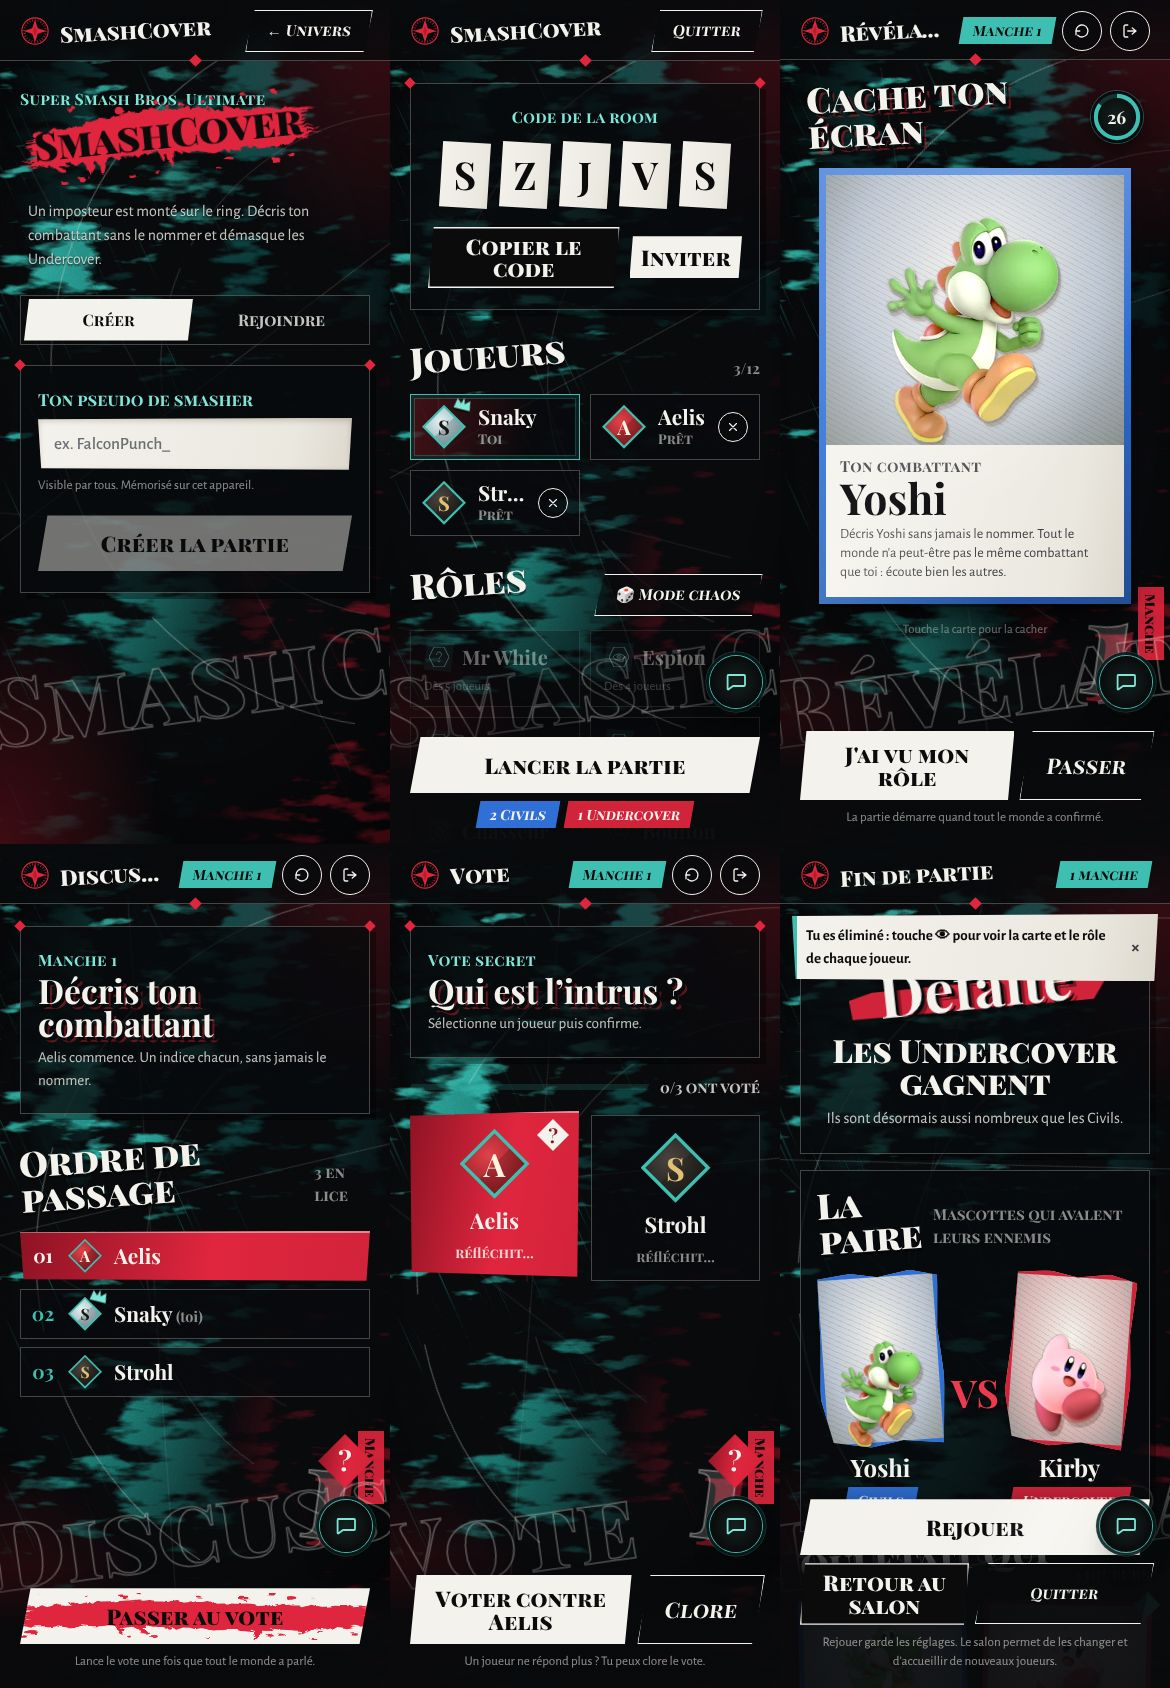
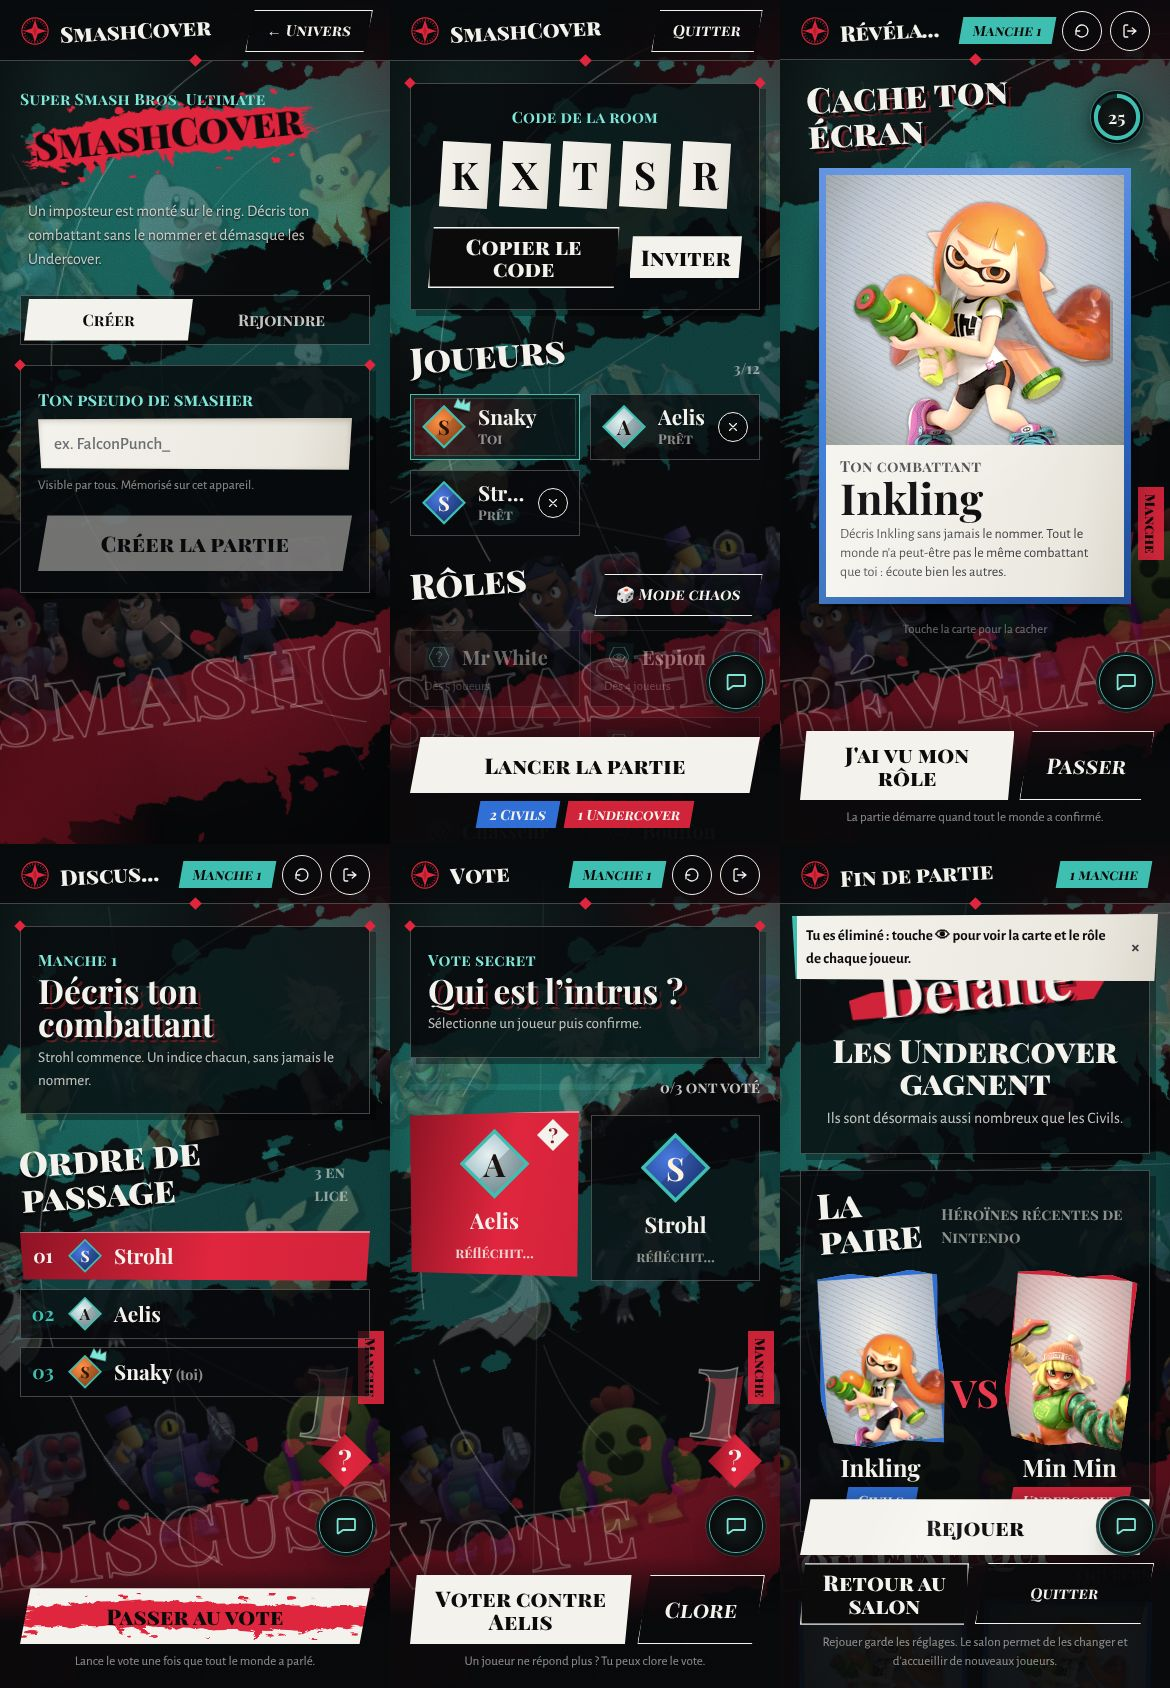
Nouveau fond : coups de pinceau nets et personnages qui défilent
La texture grunge (bruit flou) est remplacée par trois grands coups de
pinceau en biais, et trois bandes de personnages (Smash, Pokémon, Brawl
Stars, images de public/img) défilent en biais en arrière-plan, atténuées.

Claude-Session: https://claude.ai/code/session_01J4Lyn19Sxs4PNSTusjNLPC

diff --git a/client/src/styles/metaphor.css b/client/src/styles/metaphor.css
@@ -15,56 +15,107 @@
   z-index: -1;
   overflow: hidden;
   pointer-events: none;
-  background: var(--night);
+  background:
+    radial-gradient(ellipse 80% 60% at 15% 10%, #11201f 0%, transparent 70%),
+    var(--night);
   color: var(--chalk);
 }
 
-/* Couches de peinture : la texture grunge découpée par un dégradé qui dit où la peinture tient.
-   Plus grandes que l'écran pour pouvoir dériver lentement (transform, pas de repeinte). */
-.backdrop__paint {
+/* Grands coups de pinceau nets posés en biais sur l'encre (formes de public/paint/ en masque).
+   Peu nombreux et sombres pour laisser le contenu respirer ; ils glissent très lentement. */
+.backdrop__stroke {
   position: absolute;
-  inset: -12%;
-  -webkit-mask-image: url('/paint/grunge.svg'), var(--where);
-  mask-image: url('/paint/grunge.svg'), var(--where);
-  -webkit-mask-size: var(--grain-size, 1000px), 100% 100%;
-  mask-size: var(--grain-size, 1000px), 100% 100%;
-  -webkit-mask-position: var(--grain-pos, 0 0), 0 0;
-  mask-position: var(--grain-pos, 0 0), 0 0;
-  -webkit-mask-composite: source-in;
-  mask-composite: intersect;
-  animation: paint-drift 38s ease-in-out infinite alternate;
+  background: var(--c);
+  -webkit-mask: var(--shape) center / 100% 100% no-repeat;
+  mask: var(--shape) center / 100% 100% no-repeat;
+  transform: rotate(var(--r));
+  animation: stroke-drift 30s ease-in-out infinite alternate;
 }
 
-.backdrop__paint--teal {
-  background: linear-gradient(160deg, #3fc4b4, #1f8d84 60%, #176b66);
-  --where: radial-gradient(ellipse 70% 75% at 18% 42%, #000 30%, transparent 78%);
+.backdrop__stroke--1 {
+  --shape: url('/paint/stroke-1.svg');
+  --c: linear-gradient(90deg, #1d8a80, #27a99b 55%, #1b7770);
+  --r: -18deg;
+  left: -30vw;
+  top: 4vh;
+  width: max(120vw, 900px);
+  height: max(30vh, 220px);
+  opacity: 0.55;
 }
 
-.backdrop__paint--deep {
-  background: #0f4b49;
-  --grain-size: 760px;
-  --grain-pos: 310px 140px;
-  --where: radial-gradient(ellipse 60% 55% at 55% 20%, #000 20%, transparent 75%);
+.backdrop__stroke--2 {
+  --shape: url('/paint/stroke-3.svg');
+  --c: #10403d;
+  --r: -14deg;
+  left: -10vw;
+  top: 34vh;
+  width: max(90vw, 700px);
+  height: max(22vh, 160px);
   opacity: 0.9;
-  animation-duration: 46s;
+  animation-duration: 38s;
   animation-direction: alternate-reverse;
 }
 
-.backdrop__paint--red {
-  background: linear-gradient(200deg, #b31b31, #6d0f1d);
-  --grain-size: 880px;
-  --grain-pos: 520px 380px;
-  --where: radial-gradient(ellipse 55% 60% at 92% 88%, #000 25%, transparent 75%);
-  opacity: 0.85;
-  animation-duration: 52s;
+.backdrop__stroke--3 {
+  --shape: url('/paint/stroke-2.svg');
+  --c: linear-gradient(90deg, #6d0f1d, #a3182c);
+  --r: -20deg;
+  right: -34vw;
+  bottom: -2vh;
+  width: max(100vw, 760px);
+  height: max(26vh, 190px);
+  opacity: 0.6;
+  animation-duration: 44s;
 }
 
-@keyframes paint-drift {
-  from {
-    transform: translate3d(-1.5%, 0, 0) scale(1);
-  }
+@keyframes stroke-drift {
   to {
-    transform: translate3d(1.5%, -1%, 0) scale(1.04);
+    transform: rotate(var(--r)) translateX(2.5%);
+  }
+}
+
+/* Bandes de personnages qui défilent en biais. La piste contient deux copies de la bande et
+   glisse d'une demi-longueur : la boucle ne saute pas. Atténuées pour ne pas gêner la lecture. */
+.parade {
+  position: absolute;
+  left: -30vw;
+  right: -30vw;
+  top: 50%;
+  display: flex;
+  flex-direction: column;
+  gap: clamp(26px, 6vh, 70px);
+  transform: translateY(-50%) rotate(-12deg);
+  opacity: 0.2;
+  filter: grayscale(0.35) contrast(1.05);
+}
+
+.parade__row {
+  display: flex;
+  align-items: flex-end;
+  gap: clamp(18px, 3vw, 40px);
+  width: max-content;
+  animation: parade var(--d, 90s) linear infinite;
+}
+
+.parade__row--reverse {
+  animation-direction: reverse;
+}
+
+.parade__row:nth-child(2) {
+  margin-left: -8vw;
+}
+
+.parade__row img {
+  height: clamp(96px, 17vh, 170px);
+  width: auto;
+  flex: none;
+  object-fit: contain;
+  filter: drop-shadow(6px 6px 0 rgba(0, 0, 0, 0.6));
+}
+
+@keyframes parade {
+  to {
+    transform: translateX(-50%);
   }
 }
 
@@ -710,7 +761,8 @@ h3 {
 }
 
 @media (prefers-reduced-motion: reduce) {
-  .backdrop__paint,
+  .backdrop__stroke,
+  .parade__row,
   .backdrop__arcs {
     animation: none;
   }

diff --git a/client/src/components/Backdrop.tsx b/client/src/components/Backdrop.tsx
@@ -1,16 +1,39 @@
+import type { CSSProperties } from 'react';
+
+// Personnages qui défilent en bandes dans le fond (images hébergées dans public/img).
+const SMASH = ['mario', 'link', 'kirby', 'pikachu', 'samus', 'cloud', 'sonic', 'inkling', 'fox', 'bayonetta', 'snake', 'ryu', 'koopa', 'pacman'];
+const POKEMON = [25, 6, 150, 133, 94, 448, 143, 658, 384, 1, 4, 7, 39, 197, 282, 445];
+const BRAWL = Array.from({ length: 14 }, (_, i) => 16000000 + i);
+
+const ROWS: { images: string[]; duration: string; reverse?: boolean }[] = [
+  { images: SMASH.map((n) => `/img/smash/${n}.webp`), duration: '90s' },
+  { images: POKEMON.map((n) => `/img/pokemon/${n}.webp`), duration: '110s', reverse: true },
+  { images: BRAWL.map((n) => `/img/brawl/${n}.webp`), duration: '100s' },
+];
+
 /**
- * Fond commun à tous les écrans (DA "Grimoire" peinte, voir styles/metaphor.css) : encre noire
- * recouverte de peinture turquoise et rouge passée au pinceau sec (public/paint/grunge.svg en
- * masque), arcs de compas blancs qui tournent lentement, traits de règle, grain et vignette.
- * Monté une seule fois dans App, en position fixe derrière tout le reste ; la teinte de
- * l'univers vient de [data-universe] sur l'écran courant (.screen::before).
+ * Fond commun à tous les écrans (DA "Grimoire" peinte, voir styles/metaphor.css) : encre noire,
+ * trois grands coups de pinceau en biais, bandes de personnages qui défilent en biais (Smash,
+ * Pokémon, Brawl Stars), arcs de compas blancs, grain et vignette. Monté une seule fois dans App,
+ * en position fixe derrière tout le reste ; la teinte de l'univers vient de [data-universe] sur
+ * l'écran courant (.screen::before).
  */
 export function Backdrop() {
   return (
     <div className="backdrop" aria-hidden="true">
-      <div className="backdrop__paint backdrop__paint--teal" />
-      <div className="backdrop__paint backdrop__paint--deep" />
-      <div className="backdrop__paint backdrop__paint--red" />
+      <div className="backdrop__stroke backdrop__stroke--1" />
+      <div className="backdrop__stroke backdrop__stroke--2" />
+      <div className="backdrop__stroke backdrop__stroke--3" />
+      <div className="parade">
+        {ROWS.map((row, r) => (
+          <div key={r} className={`parade__row${row.reverse ? ' parade__row--reverse' : ''}`} style={{ '--d': row.duration } as CSSProperties}>
+            {/* Deux copies de la bande : la piste glisse d'une demi-longueur puis recommence, sans saut */}
+            {[0, 1].map((copy) =>
+              row.images.map((src) => <img key={`${copy}-${src}`} src={src} alt="" loading="lazy" decoding="async" draggable={false} />),
+            )}
+          </div>
+        ))}
+      </div>
       <svg className="backdrop__arcs" viewBox="0 0 1000 1000" preserveAspectRatio="xMidYMid slice">
         <g fill="none" stroke="currentColor">
           <circle cx="760" cy="420" r="430" strokeOpacity="0.32" strokeWidth="1.2" strokeDasharray="980 60 220 40" />
